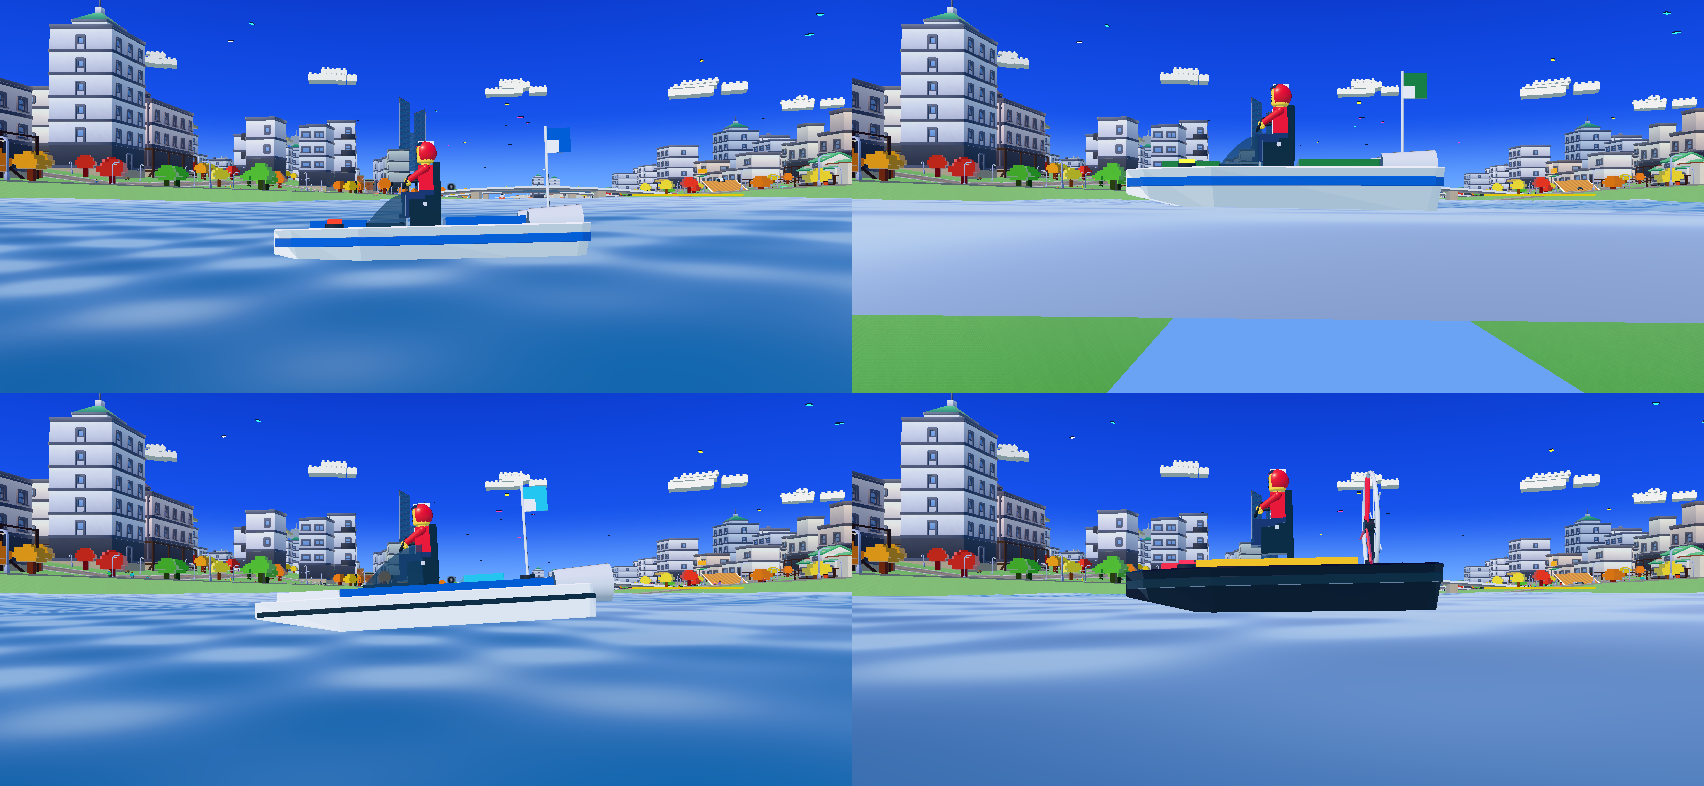
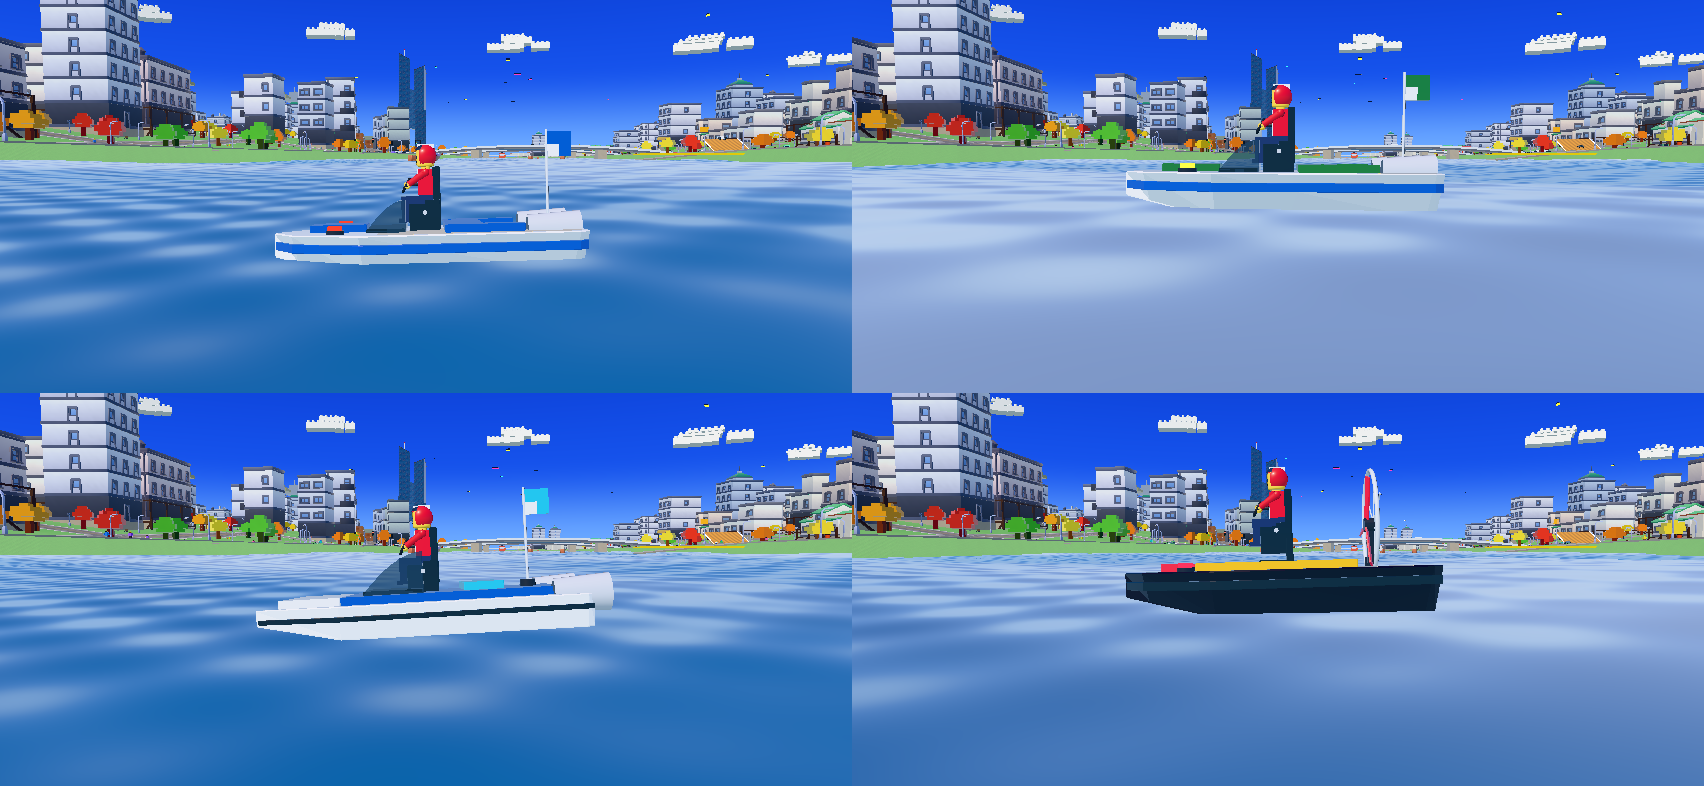
v87f shots: boats re-shot with the camera above the waves
Claude-Session: https://claude.ai/code/session_01KzswpJSwfh6TViURJSN9mj

diff --git a/tools/w8boat.js b/tools/w8boat.js
@@ -10,5 +10,5 @@ const {chromium}=require('playwright');const fs=require('fs');
  await p.evaluate(()=>{__mho.storyClose&&__mho.storyClose();__mho.roamSim(20);__ju.autoClose(true)});
  const save=(n,r)=>{if(r&&r.png)fs.writeFileSync(`${OUT}/${n}.png`,Buffer.from(r.png.split(',')[1],'base64'))};
  for(const id of SETS.split(',')){const sel=await p.evaluate(id=>__w8.sel(id),id);const r=await p.evaluate(s=>__w8.boatRun(s),SPOT);console.log(id,sel,JSON.stringify(r));
-  save(`${id}_side`,await p.evaluate(()=>__w8.cam(1.5708,7,.25)));save(`${id}_34`,await p.evaluate(()=>__w8.cam(.9,8,1.6)))}
+  save(`${id}_side`,await p.evaluate(()=>__w8.cam(1.5708,7,.8)));save(`${id}_34`,await p.evaluate(()=>__w8.cam(.9,8,1.6)))}
  console.log('ERRORS',errs.length,errs.slice(0,5).join(' | '));await b.close()})();

diff --git a/docs/shots/v87f/README.md b/docs/shots/v87f/README.md
@@ -1,5 +1,5 @@
 # v87f candidate shots (852x393, worker 8)
 - 00 before: traffic suv = sedan + roof plate. 01-03 after: new CR_suv (curved nose, chrome grille, arches, raked screen, pillars, side/rear windows, roof rails), 2.15 x 1.63 x 4.85 m.
-- 04 boats per garage set (rod, ebbel, posei, gold), 05 posei close. Waterline gap (hull bottom - wave surface, mean of 24 samples, m): before rod -0.11, ebbel -0.34, posei +0.57, gold +0.08 (boat kept the street car's ride-height offset); after rod -0.18, ebbel -0.29, posei +0.02, gold -0.25 (target -0.22; samples include pitch).
+- 04 boats per garage set (rod, ebbel, posei, gold; camera 0.8 m above the boat, re-shot after the first 04 had the camera under the waves), 04b ebbel close, 05 posei close. Waterline gap (hull bottom - wave surface, mean of 24 samples, m): before rod -0.11, ebbel -0.34, posei +0.57, gold +0.08 (boat kept the street car's ride-height offset); after rod -0.18, ebbel -0.29, posei +0.02, gold -0.25 (target -0.22; samples include pitch).
 - 06/07 GAS held / released on touch (pedal mode). The "dimmed" GAS in 02_ath_drive was the pressed state: 35 % mint over green grass. Pressed is now solid mint with dark text.
 - Console errors: 0 in all runs.
